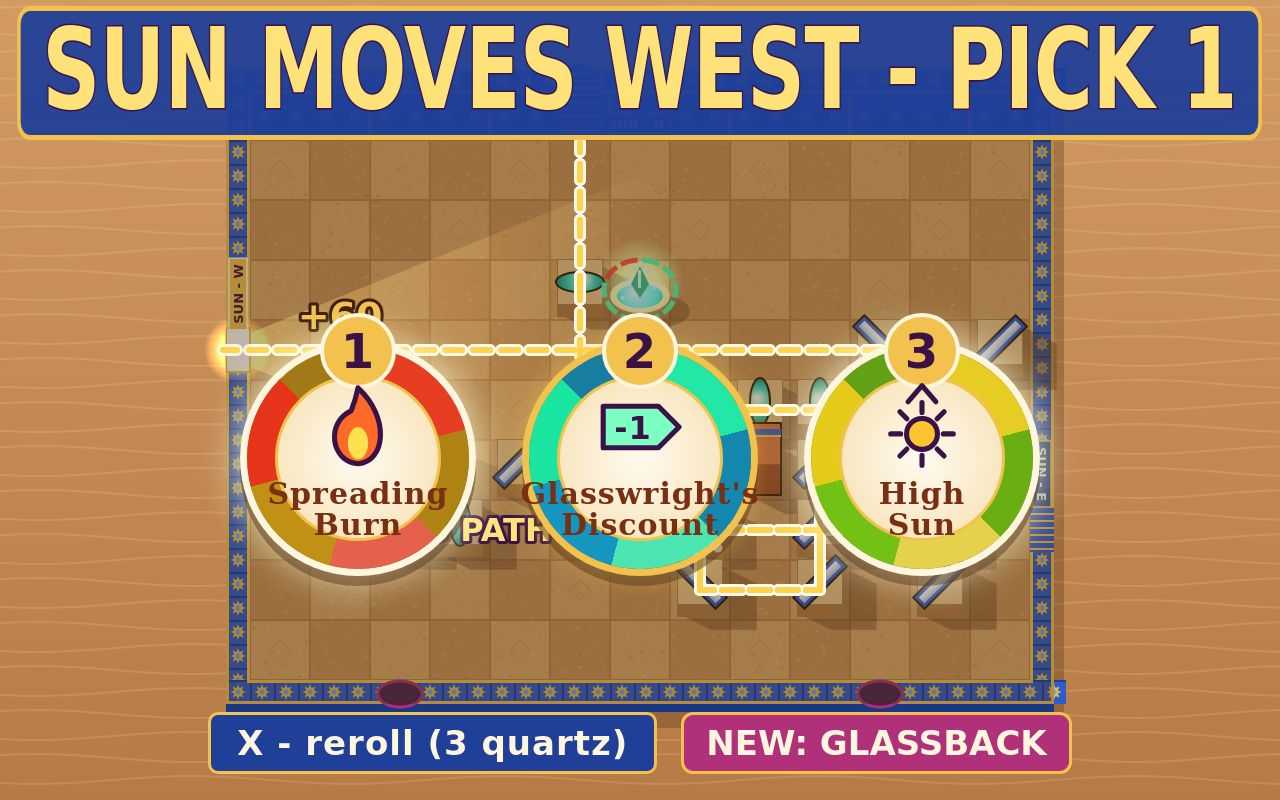
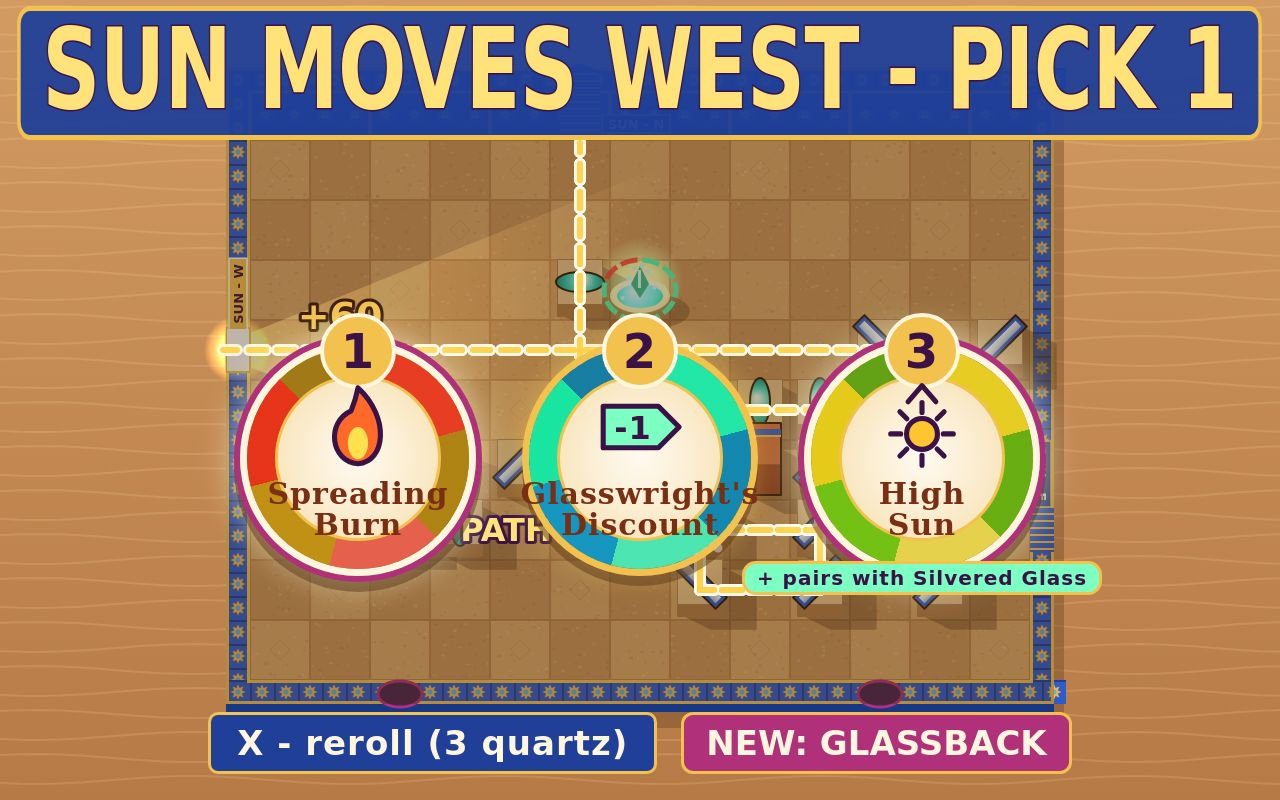
Draft roundels: '+ pairs with X' synergy tag when the partner charm is owned (config SYNERGY), magenta rim on rare charms, SEAR window text keeps numbers with units

diff --git a/game/src/ui/menus.js b/game/src/ui/menus.js
@@ -1,7 +1,7 @@
 // DOM overlays above the canvas: title (with difficulty picker and best scores), how to play,
 // pause, the draft's stained-glass roundels, and the results screen. Buttons only queue
 // { kind: 'ui', action, arg } intents; main.js decides what they do.
-import { DIFFICULTY_ORDER, DIFFICULTIES, ENEMIES, NAMES, PIECES, PIECE_ORDER, RESULT_LOSE_TITLE, RESULT_WIN_TITLE, SCOPE_LINE, WAVE_COUNT } from '../config.js';
+import { DIFFICULTY_ORDER, DIFFICULTIES, ENEMIES, NAMES, PIECES, PIECE_ORDER, RESULT_LOSE_TITLE, RESULT_WIN_TITLE, SCOPE_LINE, SYNERGY, WAVE_COUNT } from '../config.js';
 import { boonById, rerollCost } from '../draft.js';
 import { sunApertureFor } from '../sun.js';
 import { waveRoster } from '../waves.js';
@@ -68,7 +68,7 @@ export function showDraft(menus, run) {
       return `<button class="roundel ${b.weight <= 2 ? 'rare' : ''}" style="--hue:${b.hue}" data-action="pick" data-arg="${i}">
         <span class="glass"></span><span class="key">${i + 1}</span>
         <canvas class="glyph" width="96" height="96" data-charm="${id}"></canvas>
-        <b>${escapeHtml(b.name)}</b><span class="effect">${escapeHtml(b.text)}</span></button>`;
+        <b>${escapeHtml(b.name)}</b><span class="effect">${escapeHtml(b.text)}</span>${synergyTag(run, id)}</button>`;
     })
     .join('');
   for (const canvas of el('draft-roundels').querySelectorAll('canvas.glyph')) drawCharmGlyph(canvas.getContext('2d'), canvas.dataset.charm, 48, 48, 46);
@@ -84,6 +84,12 @@ export function showDraft(menus, run) {
 function clock(seconds) {
   const s = Math.max(0, Math.round(seconds));
   return `${Math.floor(s / 60)}:${String(s % 60).padStart(2, '0')}`;
+}
+
+/** "+ pairs with X" when the run already owns this charm's partner. */
+function synergyTag(run, id) {
+  const partner = SYNERGY[id];
+  return partner && run.boons.includes(partner) ? `<span class="synergy">+ pairs with ${escapeHtml(boonById(partner).name)}</span>` : '';
 }
 
 /** Shrink each stat label horizontally until it fits its tile on one line (needs the overlay shown). */

diff --git a/game/style.css b/game/style.css
@@ -52,7 +52,8 @@ kbd { display: inline-block; min-width: 34px; padding: 0 6px; font: 900 28px sys
 .sunbanner { margin: 6px 0 0; padding: 0 30px 6px; width: max-content; white-space: nowrap; font: 900 112px system-ui, sans-serif; line-height: 1.05; letter-spacing: -1px; transform: scaleX(0.72); color: #ffe27a; -webkit-text-stroke: 3px #3b1247; paint-order: stroke fill; background: rgba(31, 63, 153, 0.94); border: 5px solid #f2c14e; border-radius: 18px; }
 .roundels { display: flex; gap: 46px; margin-top: 200px; }
 .roundel { position: relative; width: 236px; height: 236px; border-radius: 50%; padding: 0 34px; display: flex; flex-direction: column; align-items: center; justify-content: center; gap: 4px; border: 7px solid #f2c14e; background: none; box-shadow: 0 10px 0 rgba(91, 58, 30, 0.5), 0 0 30px rgba(255, 210, 90, 0.45); }
-.roundel.rare { border-color: #fff6df; box-shadow: 0 10px 0 rgba(91, 58, 30, 0.5), 0 0 40px rgba(255, 255, 220, 0.85); }
+.roundel.rare { border-color: #fff6df; box-shadow: 0 0 0 6px #b0307a, 0 10px 0 6px rgba(91, 58, 30, 0.5), 0 0 40px rgba(255, 255, 220, 0.85); }
+.roundel .synergy { position: absolute; z-index: 2; bottom: -26px; white-space: nowrap; padding: 2px 12px; font: 900 20px system-ui, sans-serif; color: #3b1247; background: #7dffc4; border: 3px solid #f2c14e; border-radius: 14px; }
 .roundel .glass { position: absolute; inset: 0; z-index: 0; border-radius: 50%; overflow: hidden; background: conic-gradient(from 15deg, hsl(var(--hue) 80% 52%) 0 60deg, hsl(calc(var(--hue) + 35) 80% 38%) 0 120deg, hsl(var(--hue) 75% 60%) 0 180deg, hsl(calc(var(--hue) + 35) 80% 42%) 0 240deg, hsl(var(--hue) 80% 50%) 0 300deg, hsl(calc(var(--hue) + 35) 75% 36%) 0); }
 .roundel .glass::after { content: ""; position: absolute; inset: 28px; border-radius: 50%; background: radial-gradient(#fffaf0, #f6dfae); border: 3px solid #f2c14e; }
 .roundel b, .roundel .key, .roundel .effect, .roundel .glyph { position: relative; z-index: 1; }

diff --git a/game/src/config.js b/game/src/config.js
@@ -155,11 +155,17 @@ export const BOONS = [
   { id: 'mend', name: NAMES.charm.mend, text: 'Heal the fountain 4 HP', weight: 3, hue: 120, repeat: true },
   { id: 'spreading', name: NAMES.charm.spreading, text: 'Burned beetles scorch their neighbours', weight: 2, hue: 8 },
   { id: 'highsun', name: NAMES.charm.highsun, text: 'Every beam +20% power', weight: 2, hue: 52 },
-  { id: 'longchain', name: NAMES.charm.longchain, text: 'SEAR window 1 s -> 1.6 s', weight: 2, hue: 330 },
+  { id: 'longchain', name: NAMES.charm.longchain, text: 'SEAR window 1s -> 1.6s', weight: 2, hue: 330 },
   { id: 'grinder', name: NAMES.charm.grinder, text: 'Lenses focus x3.2 instead of x2.5', weight: 2, hue: 190 },
   { id: 'trueprism', name: NAMES.charm.trueprism, text: 'Prism branches keep 75% power', weight: 2, hue: 300 },
 ];
 export const SPREAD_BURN = { radius: 1.1, damage: 12 };
+/** Charm pairs that work well together (a draft roundel names its partner when you own it). */
+export const SYNERGY = {
+  silvered: 'highsun', highsun: 'silvered', burning: 'grinder', grinder: 'burning', spreading: 'trueprism',
+  trueprism: 'spreading', flare2: 'highsun', magnet: 'discount', discount: 'magnet', sunstone: 'mend',
+  mend: 'sunstone', longchain: 'spreading',
+};
 
 /** The game's scope in one line, counted from the tables above (title screen and index.html note). */
 export const SCOPE_LINE = `${PIECE_ORDER.length} glass - ${ENEMY_ORDER.filter((t) => !ENEMIES[t].boss).length} beetles + the Titan - ${WAVE_COUNT} suns - ${BOONS.length} charms - ${DIFFICULTY_ORDER.length} difficulties`;
